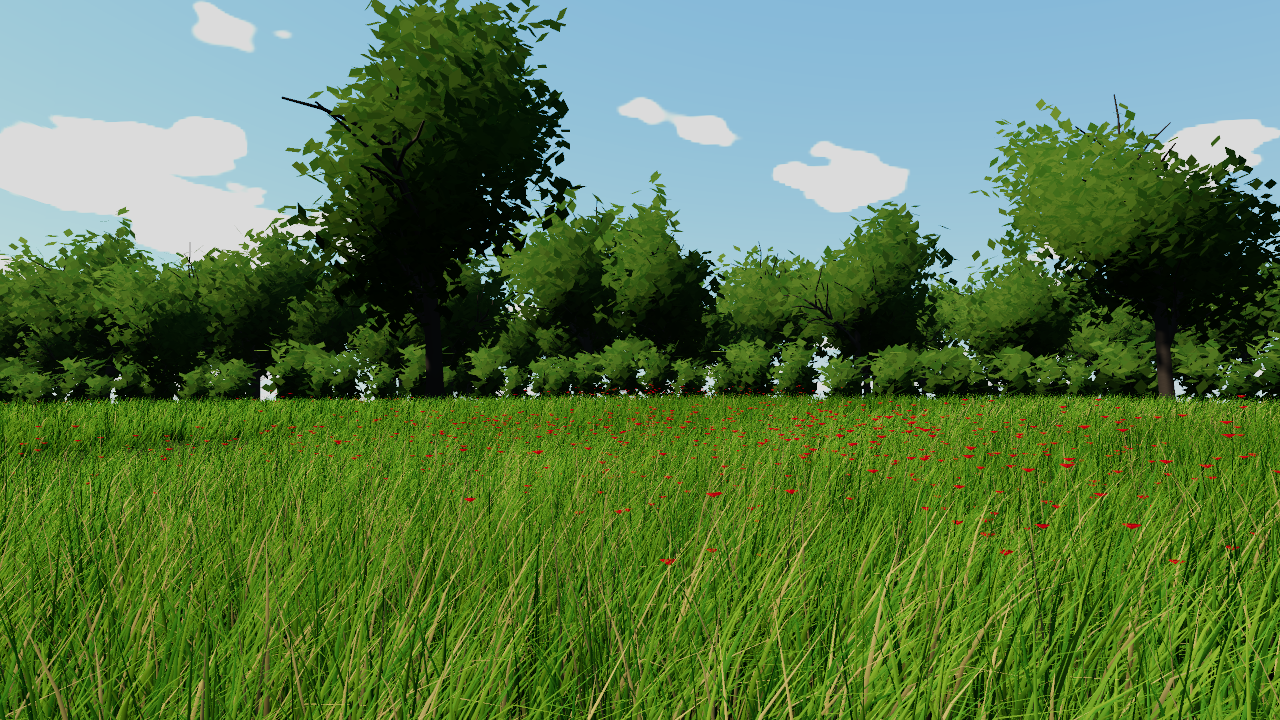
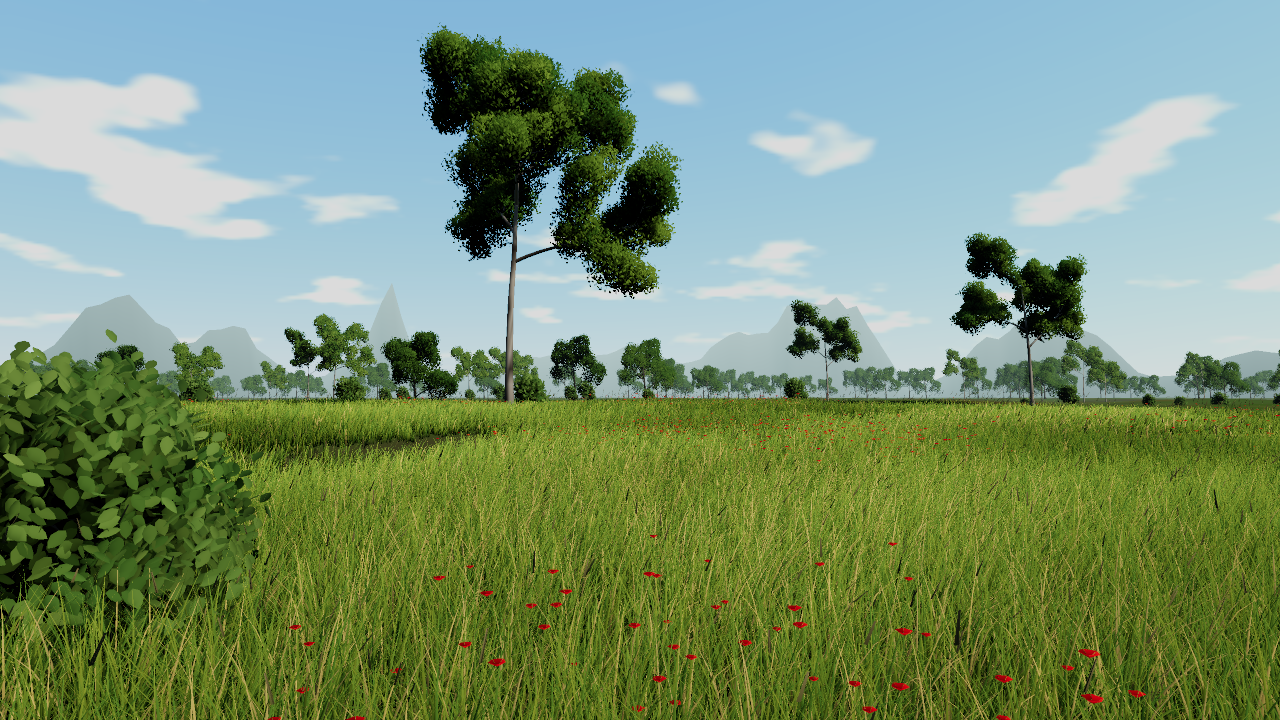
Document clumped crowns and the grassland layout, and render the figures again
The Vegetation page describes the crowns, the light baked through their
clumps, the crown levels and the plantings. The explanation page says
why a crown is lit by its clumps. Both figures are rendered again.

diff --git a/docs/wiki/Vegetation.md b/docs/wiki/Vegetation.md
@@ -1,12 +1,12 @@
 # Vegetation
 
-`Meadow` builds a summer meadow: tall grass, poppies, a treeline, boulders, a sky with clouds, and a sun with soft shadows.
+`Meadow` builds open summer grassland: tall grass, poppies, trees and bushes of real leaves, mountains, a clouded sky and a sun with soft shadows.
 
-![Tall grass and red poppies rise to a treeline under a summer sky](out/meadow.png)
+![A lone pale-trunked tree stands in tall grass, with scattered trees and hazy mountains beyond](out/meadow.png)
 
 `examples/meadow.mojo` draws this picture. The modules live in `extensions/vegetation/`. See [Extensions](Extensions). [Why grass is drawn in clusters](Why-grass-is-drawn-in-clusters) explains the design.
 
-The field holds about ten million blades. A frame grows and draws only the clusters that it can see, each at the level of detail that its distance picks. The frame above draws 443,000 blades as 1.5 million triangles.
+The field holds about ten million blades. A frame grows and draws only the clusters that it can see, each at the level of detail that its distance picks. The frame above draws 474,000 blades as 1.6 million triangles. The lone tree near the camera has 135,000 leaves.
 
 ## Draw one frame
 
@@ -31,9 +31,9 @@ var stats = meadow.update(scene, assets, camera, Duration(2.0, SECOND))
 var image = renderer.render(scene, assets, camera)
 ```
 
-`Meadow` adds the ground, the mountains, the trees, the boulders, the sky, the sun, the hemisphere light and the fog to the scene. It adds no grass. `update` grows the grass for one camera and one time. Call `update` before each `render`.
+`Meadow` adds the ground, the mountains, the trees and bushes, the boulders, the sky, the sun, the hemisphere light and the fog to the scene. It adds no grass. `update` grows the grass for one camera and one time. Call `update` before each `render`.
 
-`meadow_renderer` uses every worker, ACES filmic tone mapping at an exposure of 0.8, soft shadows and four samples a pixel. `meadow_camera` stands the camera 1.05 meters above the ground and looks up the slope to the trees. Its last argument walks the camera toward the trees.
+`meadow_renderer` uses every worker, ACES filmic tone mapping at an exposure of 0.8, soft shadows and four samples a pixel. `meadow_camera` stands the camera 1.6 meters above the ground and looks out over the grassland toward -z. Its last argument walks the camera toward -z.
 
 ## Animate the wind
 
@@ -61,7 +61,7 @@ for index in range(16):
 | `blades` | The blades that the drawn clusters read from their streams. |
 | `triangles` | The grass triangles of the drawn clusters. |
 
-`examples/meadow.mojo` prints these counts and the time of each step as JSON. On a four-core Linux host, the meadow builds in 0.23 seconds. `update` takes 0.18 seconds, and the render takes 5.5 seconds at 1280 by 720. The render time grows with the triangle count. It changes little with the image size or the four samples a pixel.
+`examples/meadow.mojo` prints these counts and the time of each step as JSON. On a four-core Linux host, the meadow builds in 12 seconds, most of it the 21 crowns. `update` takes 0.23 seconds, and the render takes 19 seconds at 1280 by 720. The render time grows with the triangle count. It changes little with the image size or the four samples a pixel.
 
 ## The parts
 
@@ -74,10 +74,11 @@ for index in range(16):
 | `blade.mojo` | `Blade`, and `BladeMesh`, which bakes blades into one geometry. |
 | `ground.mojo` | `Ground`: hills, the grass masks, the ground mesh and the mountain ring. |
 | `field.mojo` | `GrassField`: clusters, levels of detail and the blade stream. |
-| `crown.mojo` | `leafy_tree`: branches from `TreeGenerator`, and a crown of leaf cards. |
+| `foliage.mojo` | `Clump`, the light through clumps, `LeafMesh` and `foliage_program`. |
+| `crown.mojo` | `leafy_tree`: branches from `TreeGenerator`, clumps on the twigs, and leaves with their light. |
 | `rock.mojo` | `boulder`: a stone pushed out by noise, with moss on top. |
 | `sky.mojo` | `paint_sky`: Preetham's sky with clouds, baked into a cube. |
-| `meadow.mojo` | `Meadow`, its parameters, its camera and its renderer. |
+| `meadow.mojo` | `Meadow`, its parameters and plantings, its camera and its renderer. |
 
 ## Grass
 
@@ -94,6 +95,7 @@ The blades of a tuft curl out from its middle. A tuft has `tuft_blades` blades a
 | `GRASS` | Dark green at the root and yellow-green at the tip. |
 | `DRY_GRASS` | Straw at the tip. More of them grow where the ground is dry. |
 | `POPPY` | A thin stem with a cup of five red petals. They grow in drifts. |
+| `SEED_HEAD` | A tall thin stalk with a spike of two crossed strips. It stands above the grass. `seed_share` of the blades are stalks. |
 
 ### Levels of detail
 
@@ -118,13 +120,41 @@ A gust also brightens the tips it reaches by up to 80 percent. The field then sh
 
 ## Trees
 
-`leafy_tree` grows the branches with `TreeGenerator`. It puts `leaves_per_ring` leaf cards on each ring that is thinner than `twig_radius`. A leaf card is a diamond of two triangles.
+`leafy_tree` grows the branches with `TreeGenerator`. A twig is a tube thinner than `twig_radius` at its tip. Each twig carries a clump of leaves at its tip, and one more every `clump_spacing` back along its thin end. A clump is a sphere of about `clump_radius`.
 
-Each leaf's normal points mostly out from the crown's center. A leaf deep in the crown, or low in it, is darker. `bush_parameters` returns a bush of three levels with a short trunk.
+A clump holds up to `leaves_per_clump` leaves. They crowd its shell, and the shell is lumpy, so a clump has a ragged edge. Each leaf faces out of its clump and up, and its midrib hangs a little. A near leaf is `OVATE`: a base, three pairs of edge vertices and a tip, six triangles. Its halves tilt their normals apart, so it is lit as if it were folded.
 
-`default_crown_levels` returns three levels. Every leaf is kept to 28 meters, 30 percent to 60 meters, and 11 percent past that. A kept leaf grows by the inverse square root of the fraction. A far level also has lean wood: one level of branches fewer, and three vertices round each ring.
+| Crown | Looks |
+|---|---|
+| `CrownParameters()` | A slender tree 14 meters tall. The pale trunk is bare for half its height, and long limbs spread a crown of separate clumps. |
+| `broad_tree()` | A broad tree 12 meters tall that forks low, with more and larger clumps. |
+| `bush_parameters()` | A bush 1.3 meters tall that forks from the ground, with leaves 12 centimeters long. |
 
-The treeline is `trees` trees in a band behind the field, and `bushes` bushes along its near edge. `solitary` lists the lone trees in the meadow.
+The bark is pale with dark patches, and darker near the ground.
+
+### The light in a crown
+
+`sun_through` follows the ray from a leaf toward the sun and adds the length of each clump that it crosses. The light that comes through is `exp(-density * length)`. `sky_through` averages the same over seven directions of the open sky. Both are exact for spheres.
+
+Each leaf keeps the two numbers as its `sunlit` and `skylit` attributes. `foliage_program` uses the first as the leaf's shadow, so it dims only the sun. It uses the second as the ambient occlusion, so it dims only the sky. A leaf that sees neither is left out. A planting is never turned, because the sun's direction is baked into its leaves.
+
+### Levels of detail
+
+`default_crown_levels` returns three levels.
+
+| Reach | Keeps | Leaves | Wood |
+|---|---|---|---|
+| 40 meters | every leaf | ovate | full |
+| 110 meters | 40 percent | ovate | full |
+| past that | 16 percent | cards | lean |
+
+A kept leaf grows by the inverse square root of the fraction, so the crown keeps its cover. A card is a diamond of two triangles. Lean wood has one level of branches fewer, and three vertices round each ring.
+
+## Layout
+
+`MeadowParameters.crowns` lists the kinds of tree and bush. `plantings` lists each tree and bush: the crown it wears, where it stands, and its size. `scatter_plantings` scatters plantings across the view toward -z, between two distances.
+
+`default_crowns` returns three slender trees, two broad trees and two bushes, each of its own seed. `default_plantings` places a lone tree and a bush near the camera, and a second lone tree. It scatters 22 trees from 45 to 250 meters and 26 bushes from 12 to 120 meters. A woodland of 90 broad trees stands from 260 to 420 meters.
 
 ## Ground, sky and light
 
@@ -132,13 +162,15 @@ The treeline is `trees` trees in a band behind the field, and `bushes` bushes al
 
 `paint_sky` draws Preetham's sky into a small cube and reads it into a large cube. It then paints the clouds. `gain` scales the sky's light, and `saturation` and `tint` deepen its blue. The cube is the scene's background. Its mean color near the horizon is the fog's color.
 
-The sun is a `SunLight` with two cascades that reach 150 meters. The trees and the boulders cast shadows. The grass and the ground receive them. A hemisphere light gives the blue light of the sky and the green light that the grass sends back. The blades and the leaves are lit from both sides: `two_sided_program` turns the normal of a back face to the front.
+The sun is a `SunLight` with two cascades of 4,096 texels that reach 150 meters. The trees, the bushes and the boulders cast shadows. The grass, the ground and the wood receive them. A hemisphere light gives the blue light of the sky and the green light that the grass sends back. The blades and the leaves are lit from both sides: `two_sided_program` and `foliage_program` turn the normal of a back face to the front.
+
+The mountains are `ridge_ring`, a ring of rugged peaks 900 meters away. The fog veils them to a hazy blue.
 
 ## Types
 
 | Type | Values |
 |---|---|
-| `PlantKind` | `GRASS`, `DRY_GRASS`, `POPPY` |
+| `PlantKind` | `GRASS`, `DRY_GRASS`, `POPPY`, `SEED_HEAD` |
 | `ClusterFate` | `DRAWN`, `CULLED`, `BEYOND` |
 
 ## Limits
@@ -147,5 +179,5 @@ The sun is a `SunLight` with two cascades that reach 150 meters. The trees and t
 - Culling tests each cluster's bound against the view only. A cluster behind a hill is still drawn.
 - There is no visibility buffer. The rasterizer shades each fragment as it draws it.
 - The grass does not cast shadows. The dark roots stand in for its shadow on itself.
-- The crowns do not receive shadows. Thin cards shadow each other into a noise.
+- A crown is shadowed by its own clumps only. The shadow of another tree does not fall on its leaves.
 - The indirect light is a hemisphere light and baked occlusion. The voxel and screen-space passes of the renderer are not used.

diff --git a/docs/wiki/Why-grass-is-drawn-in-clusters.md b/docs/wiki/Why-grass-is-drawn-in-clusters.md
@@ -49,10 +49,10 @@ A blade is thin. Light that reaches one face shows through on the other, so a bl
 
 `two_sided_program` adds `2 * (front_facing - 1) * normal` to the normal. The offset is zero on a front face. On a back face, it turns the normal to the front again. The leaves of the trees use the same program.
 
-## Why a crown faces out
+## Why a crown is lit by its clumps
 
-A crown is thousands of small cards turned every way. Lit by their own normals, the cards are a noise of light and dark. Each leaf's normal is mostly the direction from the crown's center to the leaf. The crown is then lit as one round volume, bright on the sun's side.
+A crown is tens of thousands of small leaves turned every way. Lit by their own normals and the sun's shadow map, the leaves are a noise of light and dark, and thin leaves shadow themselves. Real crowns read as clumps: bright where the sun reaches a clump's top, and dark under it and inside the crown.
 
-A leaf deep in the crown, or low in it, is darker. That stands in for the light that the crown blocks. The crowns do not receive the sun's shadow, because thin cards shadow each other into a noise.
+So the leaves hang in clumps, and the clumps are spheres. The light that reaches a leaf through spheres is exact and cheap: the sum of a few chords, and Beer's law. The sun's share dims only the sun, and the sky's share dims only the sky, as the light of a real crown does. A leaf in the shade then keeps the blue light of the sky.
 
-A far crown keeps fewer leaves and makes each larger. It stays geometry, so it is lit and it casts a shadow as a near crown does.
+A far crown keeps fewer leaves and makes each larger, and the farthest uses cards. It stays geometry, so it is lit and it casts a shadow as a near crown does.
